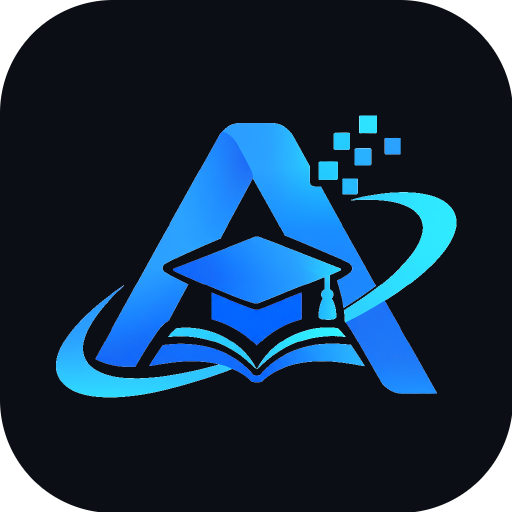
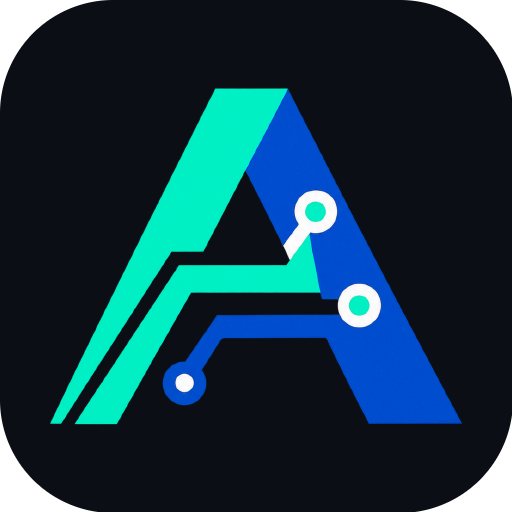
เปลี่ยนโลโก้เป็นตัว A ลายวงจร โทนกรมท่า-เทอร์ควอยซ์
ไฟล์ต้นฉบับรอบนี้ต่างจากสามรอบก่อน เพราะ **มีช่อง alpha มาแล้วจริง ๆ**
(ตรวจแล้วพื้นหลังโปร่งใสสนิท ไม่ใช่ลายตารางที่วาดฝังมาเหมือนคราวก่อน)
สคริปต์จึงไม่ต้องตัดพื้นหลังเองเลย งานที่เหลือมีแค่ยกความสว่างให้อ่านออกบนธีมมืด

จุดที่ต้องระวังและเป็นเหตุผลที่ต้องเขียนสคริปต์ใหม่แทนการแก้ค่าพิกัดเฉย ๆ:
โลโก้ตัวนี้มีเส้นวงจรสีขาวพาดอยู่ในตัว A ถ้ายังใช้วิธีตัดพื้นหลังด้วยความอิ่มสี
แบบโลโก้ตัวก่อน เส้นวงจรจะถูกลบหายไปทั้งหมด เพราะสีขาวเป็นสีไร้สี

สีกรมท่าในโลโก้คือ rgb(0,0,39) ซึ่งบนพื้น #0b0e14 ได้ contrast 1.00:1 คือมองไม่เห็นเลย
ยกความสว่างด้วยการขยับค่า L ใน HSL แล้วได้เฉลี่ย 6.24:1
โดยข้ามพิกเซลไร้สีไว้ เส้นวงจรสีขาวจึงยังขาวเหมือนเดิม

โลโก้ชุดนี้เป็นแนวตั้ง (945x1222) ต่างจากตัวก่อนที่เป็นแนวนอน
CSS หน้าเข้าสู่ระบบจึงเปลี่ยนไปคุมด้วย max-height แทน width
ไม่งั้นรูปจะกินพื้นที่จนฟอร์มตกไปอยู่ใต้ขอบจอ — ตรวจที่ 375px แล้วปุ่มยังอยู่ในจอ
และปรับกรอบไอคอนแถบข้างเป็น 44x36 ให้ตรงอัตราส่วนจริง 1.22:1 จะได้ไม่บิด

Changed region(s): [[0.0938, 0.1562, 0.9062, 0.8438]]

diff --git a/css/style.css b/css/style.css
@@ -132,9 +132,11 @@ button{font-family:inherit}
 }
 .brand{display:flex;gap:11px;align-items:center;padding:2px 4px 12px;border-bottom:1px solid var(--line-soft)}
 /* โลโก้จริงของศูนย์เรียนรู้ — ไฟล์ PNG พื้นโปร่งใสที่ตัดมาจากไฟล์ต้นฉบับ */
-.brand-mark{width:46px;height:34px;object-fit:contain;flex:none;
+.brand-mark{width:44px;height:36px;object-fit:contain;flex:none;
   filter:drop-shadow(0 4px 14px rgba(56,189,248,.28))}
-.login-card .brand-logo{width:min(310px,88%);height:auto;display:block;margin:0 auto;
+/* โลโก้ชุดนี้เป็นแนวตั้ง (สูงกว่ากว้าง) จึงคุมด้วยความสูง ไม่ใช่ความกว้าง
+   ไม่งั้นการ์ดล็อกอินจะถูกรูปกินพื้นที่จนฟอร์มตกไปอยู่ใต้ขอบจอ */
+.login-card .brand-logo{max-height:190px;width:auto;max-width:88%;display:block;margin:0 auto;
   filter:drop-shadow(0 6px 20px rgba(56,189,248,.22))}
 
 /* ไอคอน SVG ของ Learning Path — ทำตัวเหมือน emoji คือโตตาม font-size ของที่ที่วาง */

diff --git a/index.html b/index.html
@@ -21,7 +21,7 @@
   <div id="app" hidden>
     <aside id="sidebar">
       <div class="brand">
-        <img class="brand-mark" src="assets/logo-mark.png" alt="" width="46" height="34">
+        <img class="brand-mark" src="assets/logo-mark.png" alt="" width="44" height="36">
         <div>
           <div class="brand-title">ASD ACADEMY</div>
           <div class="brand-sub">IT &amp; SysEng</div>
